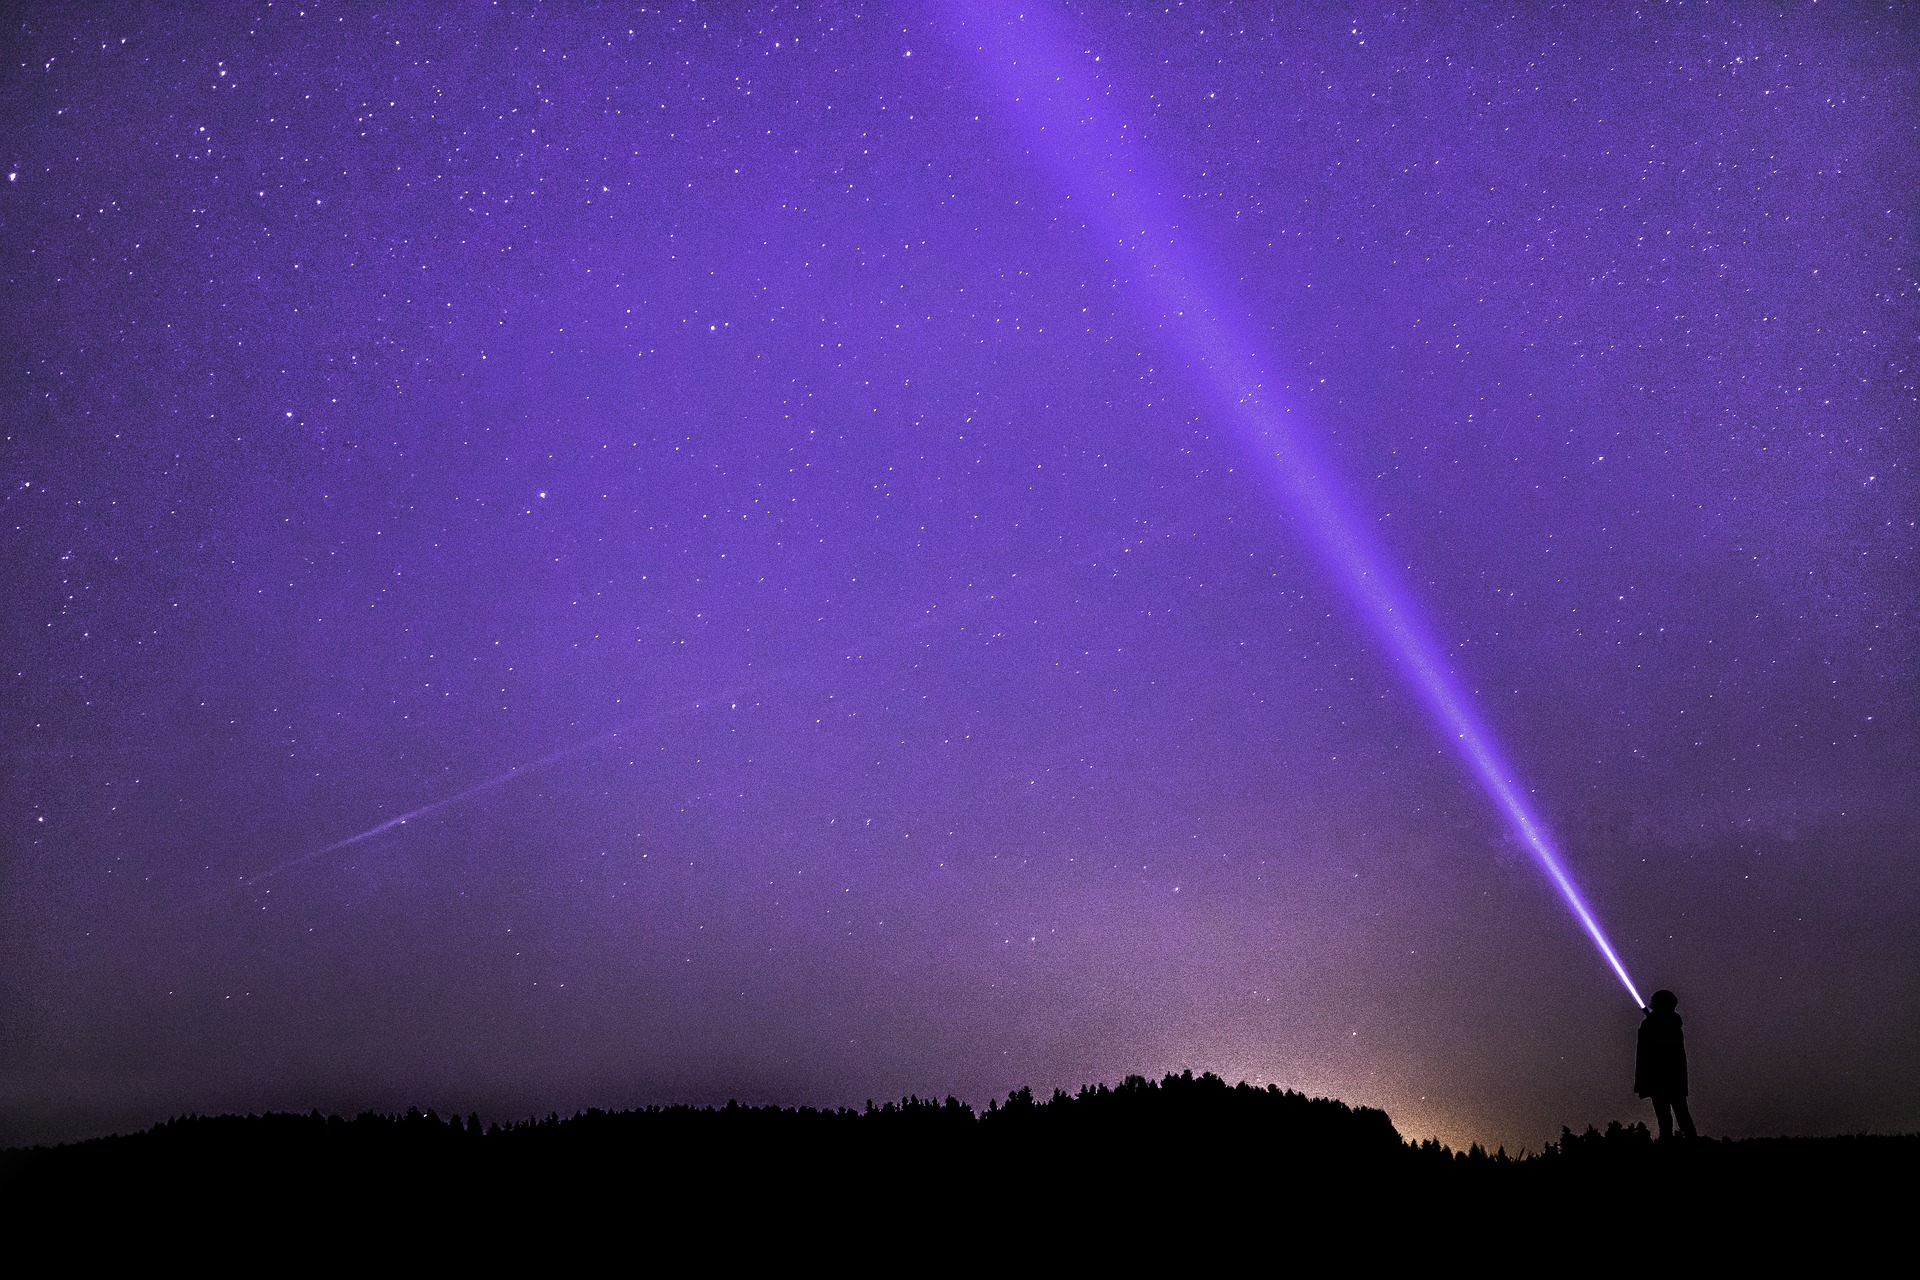
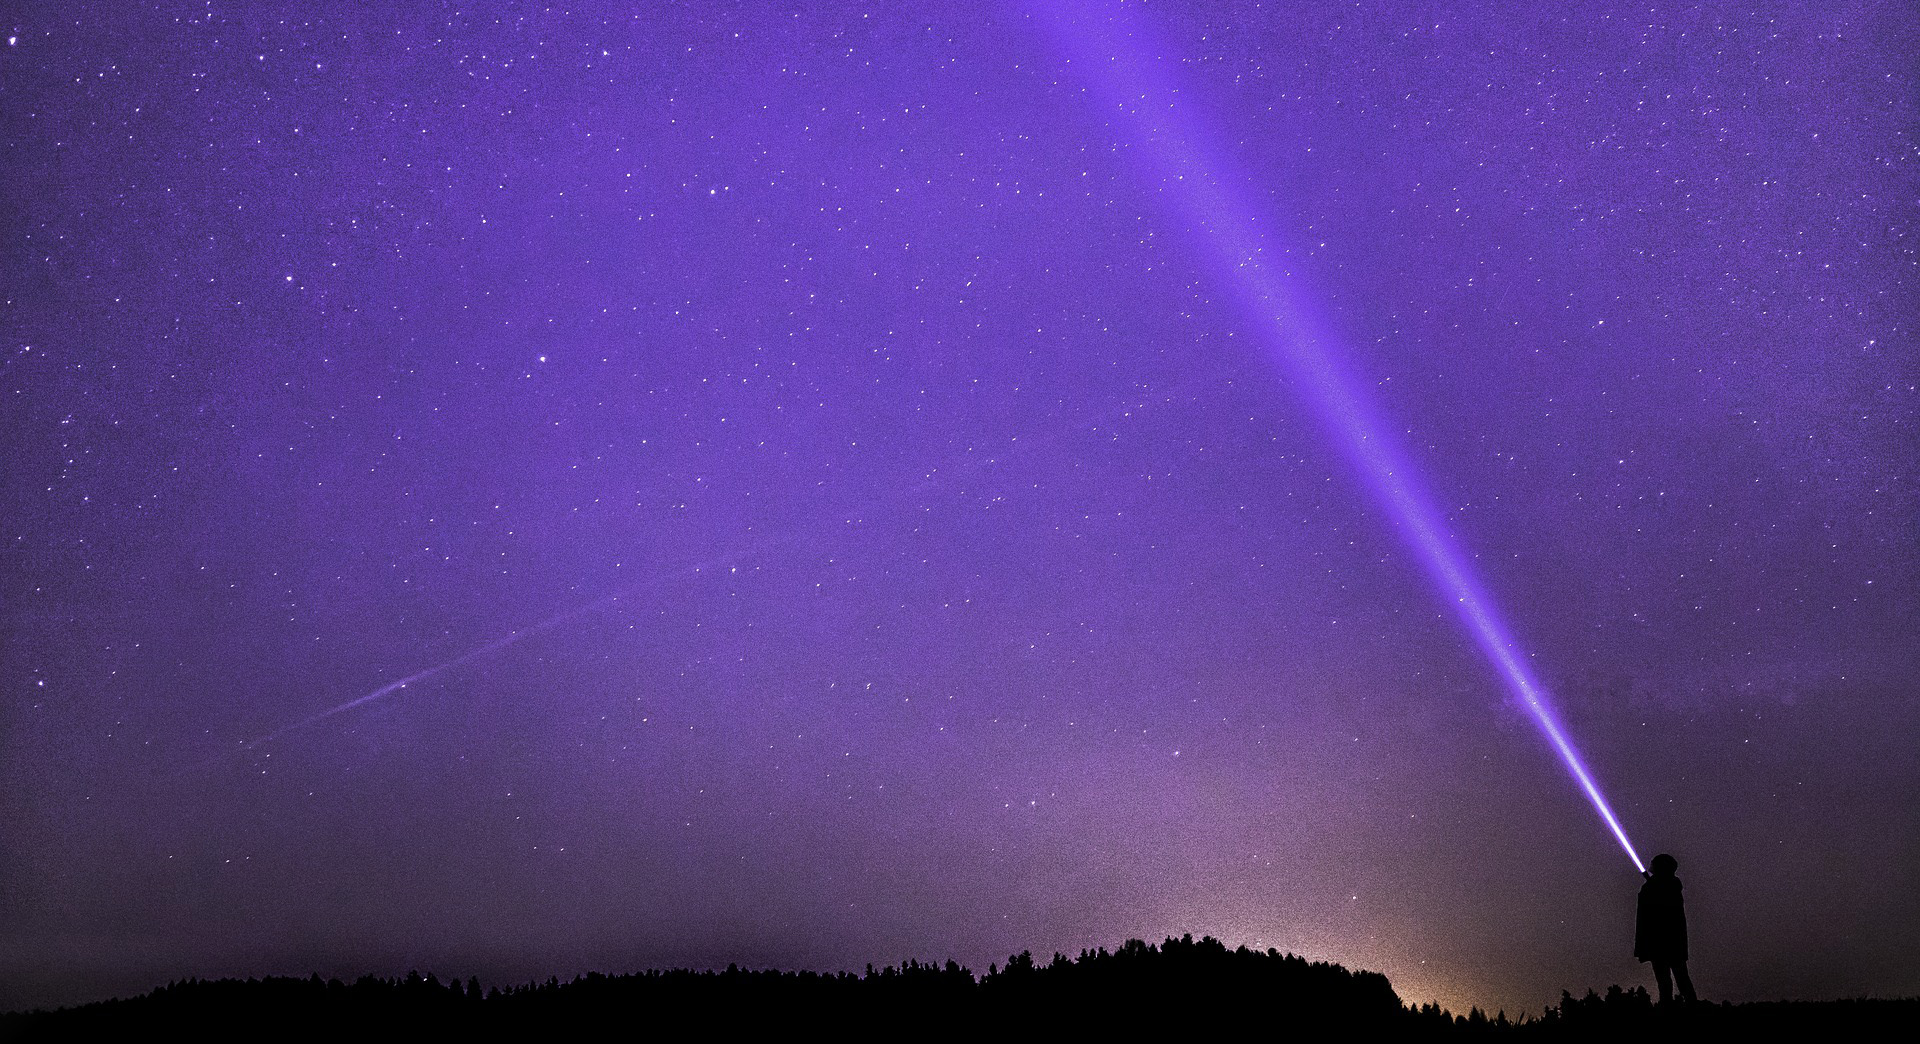
Updated web page. Ver 1.1.2

diff --git a/style.css b/style.css
@@ -74,6 +74,8 @@ body{
     background-repeat: no-repeat;
     background-attachment: fixed;
     background-size: cover;
+    background-position: center center;
+    background-color: black;
 }
 div{
     width: 724px;
